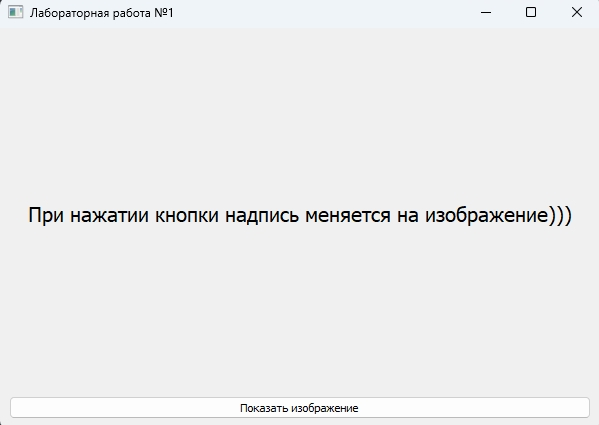
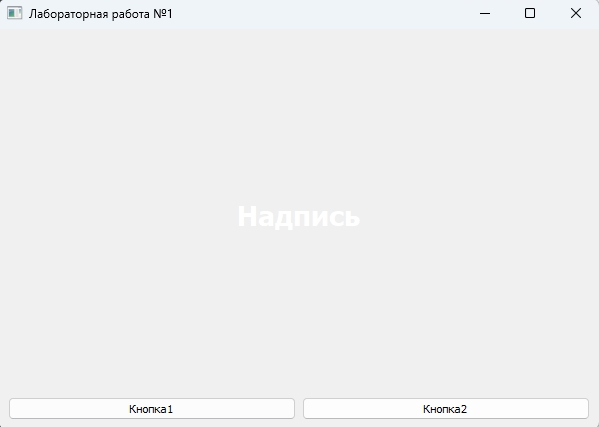
ЛР №1

diff --git a/LR1/main.py b/LR1/main.py
@@ -1,17 +1,34 @@
 import sys
-from PyQt5.QtWidgets import (
-    QApplication,
-    QMainWindow,
-    QWidget,
-    QVBoxLayout,
-    QLabel,
-    QPushButton,
-    QFileDialog,
-    QMessageBox,
-    QSizePolicy,
-)
-from PyQt5.QtGui import QPixmap
+from PyQt5.QtWidgets import (QApplication, QMainWindow, QWidget, QVBoxLayout, QHBoxLayout, QLabel, QPushButton,QFileDialog, QMessageBox,)
+from PyQt5.QtGui import QPixmap, QPainter, QColor
 from PyQt5.QtCore import Qt
+
+
+class CanvasWidget(QWidget):
+
+    def __init__(self, parent=None):
+        super().__init__(parent)
+        self.background_pixmap = None
+
+    def set_background(self, pixmap: QPixmap):
+        self.background_pixmap = pixmap
+        self.update()
+
+    def paintEvent(self, event):
+        painter = QPainter(self)
+
+        if self.background_pixmap is None:
+            painter.fillRect(self.rect(), QColor(240, 240, 240))
+            return
+
+        scaled = self.background_pixmap.scaled(
+            self.size(),
+            Qt.KeepAspectRatioByExpanding,
+            Qt.SmoothTransformation,
+        )
+
+        painter.setOpacity(0.75)
+        painter.drawPixmap(0, 0, scaled)
 
 
 class MainWindow(QMainWindow):
@@ -19,36 +36,48 @@ class MainWindow(QMainWindow):
     def __init__(self):
         super().__init__()
 
-        
         self.setWindowTitle("Лабораторная работа №1")
         self.resize(600, 400)
 
-        central = QWidget()
-        self.setCentralWidget(central)
+        self.canvas = CanvasWidget()
+        self.setCentralWidget(self.canvas)
 
-        layout = QVBoxLayout()
-        central.setLayout(layout)
+        main_layout = QVBoxLayout()
+        self.canvas.setLayout(main_layout)
 
-        self.label = QLabel("При нажатии кнопки надпись меняется на изображение)))")
+        self.label = QLabel("Надпись")
         self.label.setAlignment(Qt.AlignCenter)
-        self.label.setStyleSheet("font-size: 20px;")
+        self.label.setStyleSheet(
+            "font-size: 28px; font-weight: bold; color: white;"
+            "background: transparent;"
+        )
+        main_layout.addStretch(1)
+        main_layout.addWidget(self.label)
+        main_layout.addStretch(1)
 
-        self.label.setSizePolicy(QSizePolicy.Ignored, QSizePolicy.Ignored)
-        self.label.setMinimumSize(1, 1)
+        buttons_layout = QHBoxLayout()
+        main_layout.addLayout(buttons_layout)
 
-        layout.addWidget(self.label)
+        self.button1 = QPushButton("Кнопка1")
+        self.button2 = QPushButton("Кнопка2")
+        buttons_layout.addWidget(self.button1)
+        buttons_layout.addWidget(self.button2)
 
-        self.button = QPushButton("Показать изображение")
-        layout.addWidget(self.button)
+        self.button1.clicked.connect(self.switch_text)
+        self.button2.clicked.connect(self.upload_png)
 
-        self.button.clicked.connect(self.on_button_clicked)
+    def switch_text(self):
+        if self.label.text() == "Надпись":
+            self.label.setText("Текст изменён!")
+        else:
+            self.label.setText("Надпись")
 
-        self.original_pixmap = None
-
-
-    def on_button_clicked(self):
-        """Открывает диалог выбора изображения и показывает его в QLabel."""
-        file_path, _ = QFileDialog.getOpenFileName(self, "Выберите изображение", "", "Images (*.png *.jpg *.jpeg *.bmp *.gif);;All Files (*)",
+    def upload_png(self):
+        file_path, _ = QFileDialog.getOpenFileName(
+            self,
+            "Выберите PNG-изображение",
+            "",
+            "PNG Files (*.png);;All Files (*)",
         )
 
         if not file_path:
@@ -57,31 +86,27 @@ class MainWindow(QMainWindow):
         pixmap = QPixmap(file_path)
 
         if pixmap.isNull():
-            QMessageBox.critical(self, "Ошибка", f"Не удалось загрузить изображение:\n{file_path}", )
+            QMessageBox.critical(
+                self,
+                "Ошибка",
+                f"Не удалось загрузить изображение:\n{file_path}",
+            )
             return
 
-        self.original_pixmap = pixmap
-        self._update_pixmap()
+        self.canvas.set_background(pixmap)
+        self._fit_window_to_pixmap(pixmap)
 
+    def _fit_window_to_pixmap(self, pixmap: QPixmap):
+        img_w = pixmap.width()
+        img_h = pixmap.height()
 
-    def _update_pixmap(self):
-        """Масштабирует оригинал под текущий размер QLabel."""
-        if self.original_pixmap is None:
-            return
+        screen = QApplication.primaryScreen().availableGeometry()
 
-        if self.label.width() <= 0 or self.label.height() <= 0:
-            return
-
-        scaled = self.original_pixmap.scaled(self.label.size(), Qt.KeepAspectRatio, Qt.SmoothTransformation,  )
-        self.label.setText("")
-        self.label.setPixmap(scaled)
-
-
-    def resizeEvent(self, event):
-        """При изменении размера окна пересчитываем масштаб картинки."""
-        super().resizeEvent(event)
-        if self.original_pixmap is not None:
-            self._update_pixmap()
+        if img_w > screen.width() or img_h > screen.height():
+            self.showMaximized()
+        else:
+            self.showNormal()
+            self.resize(img_w, img_h)
 
 
 def main():

diff --git a/LR1/README.md b/LR1/README.md
@@ -16,14 +16,14 @@
 Функционал:
 
 - Главное окно с заголовком «Лабораторная работа №1».
-- Надпись (`QLabel`) с текстом по центру.
-- Кнопка (`QPushButton`) «Показать изображение».
-- При нажатии кнопки:
-  1. Открывается диалог выбора файла (`QFileDialog`).
-  2. Пользователь выбирает изображение.
-  3. Надпись заменяется на выбранное изображение.
-- При изменении размера окна изображение перемасштабируется с сохранением пропорций.
-- При попытке загрузить некорректный файл выводится сообщение об ошибке (`QMessageBox`).
+- Надпись (`QLabel`) по центру, крупная, белая, с прозрачным фоном.
+- Две кнопки (`QPushButton`) внизу окна:
+  - **Кнопка1** — переключает текст надписи между «Надпись» и «Текст изменён!».
+  - **Кнопка2** — открывает `QFileDialog` для выбора PNG-изображения.
+- Выбранное изображение отображается **фоном окна** с прозрачностью 75 %.
+- Размер окна подстраивается под картинку:
+  - меньше экрана -> окно сжимается под её размер;
+  - больше экрана -> окно максимизируется.
 
 ---
 
@@ -39,12 +39,11 @@
 ### 1. Начальное состояние окна
 ![Начальное состояние](1.jpg)
 
-### 2. Изображение вместо надписи
-
+### 2. Результат нажатия «Кнопка1»
 ![Изображение вместо надписи](2.jpg)
 
-### 3. Изменение размера окна
+### 3. Загрузка небольшого изображения
+![Небольшое окно](3.jpg)
 
-![Увеличение окна](3.jpg)
-
-*При растягивании окна изображение перемасштабируется с сохранением пропорций и остаётся вписанным в `QLabel`.*
+### 4. Загрузка большого изображения
+![Большое окно](4.jpg)
